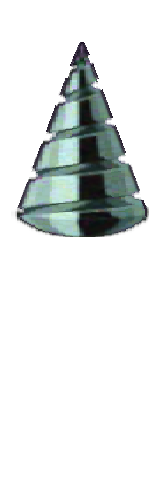
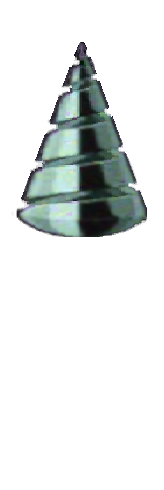
More shenanigans

Changed region(s): [[0.0915, 0.0918, 0.9146, 0.4898], [0.7622, 0.4592, 0.7927, 0.4898]]

diff --git a/src/data/shipsystems/scripts/AEG_GDBreaker.java b/src/data/shipsystems/scripts/AEG_GDBreaker.java
@@ -4,33 +4,15 @@ import com.fs.starfarer.api.Global;
 import com.fs.starfarer.api.combat.*;
 import com.fs.starfarer.api.impl.combat.BaseShipSystemScript;
 import com.fs.starfarer.api.util.IntervalUtil;
-import data.shipsystems.helpers.AEG_GigaDrillDmg;
-import data.shipsystems.helpers.AEG_GigaDrillEffects;
-import org.lazywizard.lazylib.MathUtils;
 import org.lwjgl.util.vector.Vector2f;
 
 import java.awt.*;
-import java.util.HashMap;
-import java.util.Map;
 
 public class AEG_GDBreaker extends BaseShipSystemScript {
 
     private boolean firstRun = true;
     private final IntervalUtil interval = new IntervalUtil(0f, 0.1f);
-    private final IntervalUtil particleInterval = new IntervalUtil(0f, 0.1f);
     private static final String DRILL_WEAPON_ID = "AEG_Giga_Drill";
-    private static final Map<String, String> WEAPON_SLOTS = new HashMap<>();
-
-    static {
-        WEAPON_SLOTS.put("WS0001", "AEG_gurrenl_shoulder_l");
-        WEAPON_SLOTS.put("WS0002", "AEG_gurrenl_shoulder_r");
-        WEAPON_SLOTS.put("WS0003", "AEG_gurrenl_arm_l");
-        WEAPON_SLOTS.put("WS0004", "AEG_gurrenl_arm_r");
-        WEAPON_SLOTS.put("WS0005", "AEG_drillmirv");
-        WEAPON_SLOTS.put("WS0008", "AEG_spiralcannon");
-        WEAPON_SLOTS.put("WS0009", "AEG_gurrenl_legs");
-        WEAPON_SLOTS.put("WS0010", "AEG_spiral_lance");
-    }
 
     @Override
     public void apply(MutableShipStatsAPI stats, String id, State state, float effectLevel) {
@@ -41,44 +23,30 @@ public class AEG_GDBreaker extends BaseShipSystemScript {
         if (engine == null) return;
 
         WeaponAPI drillWeapon = null;
-        Map<String, WeaponAPI> otherWeapons = new HashMap<>();
 
         for (WeaponAPI w : ship.getAllWeapons()) {
-            if (w.getSlot().getId().equals("WS0006") && w.getSpec().getWeaponId().equals(DRILL_WEAPON_ID)) {
+            if (w.getSlot().getId().equals("WS0006")) {
                 drillWeapon = w;
-            } else if (WEAPON_SLOTS.containsKey(w.getSlot().getId())) {
-                otherWeapons.put(w.getSlot().getId(), w);
+                break;
             }
-        }
-
-        if (drillWeapon != null) {
-            drillWeapon.getSprite().setAlphaMult(state == State.ACTIVE || state == State.COOLDOWN ? 1.0f : 0.0f);
         }
 
         if (state == State.ACTIVE) {
-            if (firstRun && drillWeapon != null) {
-                drillWeapon.getAnimation().setFrame(0);
-                drillWeapon.getAnimation().play();
+            if (firstRun) {
+                if (drillWeapon != null) {
+                    drillWeapon.getAnimation().setFrame(1);
+                    drillWeapon.getAnimation().play();
+                }
                 firstRun = false;
 
                 // Add the notification text
-                engine.addFloatingText(ship.getLocation(), "GIGA DRILL BREAKER", 30f, Color.GREEN, ship, 1f, 2f);
+                engine.addFloatingText(ship.getLocation(), "GIGA DRILL BREAKER!", 30f, Color.GREEN, ship, 1f, 2f);
             }
 
-            Vector2f shipLocation = ship.getLocation();
-            particleInterval.advance(engine.getElapsedInLastFrame());
-            if (particleInterval.intervalElapsed()) {
-                for (int i = 0; i < 10; i++) {
-                    Vector2f particleLocation = MathUtils.getRandomPointInCircle(shipLocation, 50f);
-                    engine.addHitParticle(particleLocation, new Vector2f(), 10f, 1f, 0.5f, Color.GREEN);
-                }
-            }
-
-            // Add micro explosions along the path only when the system is active
-            interval.advance(engine.getElapsedInLastFrame());
-            if (interval.intervalElapsed()) {
-                Vector2f explosionLocation = MathUtils.getRandomPointInCircle(shipLocation, 100f);
-                engine.spawnExplosion(explosionLocation, new Vector2f(), Color.ORANGE, 30f, 0.5f);
+            if (drillWeapon != null) {
+                drillWeapon.getSprite().setAlphaMult(1.0f);
+                int frame = (int) ((engine.getTotalElapsedTime(false) * 20) % 4) + 1; // Loop through frames 1 to 4, twice as fast
+                drillWeapon.getAnimation().setFrame(frame);
             }
 
             ship.getMutableStats().getMaxSpeed().modifyFlat(id, 200f);
@@ -86,23 +54,13 @@ public class AEG_GDBreaker extends BaseShipSystemScript {
             ship.getMutableStats().getTurnAcceleration().modifyFlat(id, 200f);
             ship.getMutableStats().getMaxTurnRate().modifyFlat(id, 100f);
 
-            engine.addSmoothParticle(ship.getLocation(), ship.getVelocity(), 100f, 1f, 0.5f, Color.GREEN);
-
-            // Apply damage using the helper class
-            AEG_GigaDrillDmg.applyDamage(engine, ship, engine.getElapsedInLastFrame());
-
-            // Create special effects using the helper class
-            AEG_GigaDrillEffects.createEffects(engine, ship, engine.getElapsedInLastFrame());
-
-            // Hide other weapons
-            for (WeaponAPI w : otherWeapons.values()) {
-                w.getSprite().setAlphaMult(0.0f);
-            }
+            // Increase engine flame size
+            ship.getEngineController().extendFlame(id, 1.5f, 1.5f, 1.5f);
 
         } else {
             if (drillWeapon != null) {
                 drillWeapon.getAnimation().pause();
-                drillWeapon.getAnimation().setFrame(0);
+                drillWeapon.getAnimation().setFrame(0); // Stay on frame 00 when not active
             }
             firstRun = true;
 
@@ -112,10 +70,8 @@ public class AEG_GDBreaker extends BaseShipSystemScript {
             ship.getMutableStats().getTurnAcceleration().unmodify(id);
             ship.getMutableStats().getMaxTurnRate().unmodify(id);
 
-            // Show other weapons
-            for (WeaponAPI w : otherWeapons.values()) {
-                w.getSprite().setAlphaMult(1.0f);
-            }
+            // Reset engine flame size
+            ship.getEngineController().extendFlame(id, 1.0f, 1.0f, 1.0f);
         }
     }
 
@@ -130,10 +86,15 @@ public class AEG_GDBreaker extends BaseShipSystemScript {
         ship.getMutableStats().getTurnAcceleration().unmodify(id);
         ship.getMutableStats().getMaxTurnRate().unmodify(id);
 
-        // Show other weapons
+        // Reset engine flame size
+        ship.getEngineController().extendFlame(id, 1.0f, 1.0f, 1.0f);
+
+        // Ensure the drill weapon is on frame 00
         for (WeaponAPI w : ship.getAllWeapons()) {
-            if (WEAPON_SLOTS.containsKey(w.getSlot().getId())) {
-                w.getSprite().setAlphaMult(1.0f);
+            if (w.getSlot().getId().equals("WS0006")) {
+                w.getAnimation().pause();
+                w.getAnimation().setFrame(0);
+                break;
             }
         }
     }

diff --git a/src/data/weapons/scripts/AEG_GurrenLegs.java b/src/data/weapons/scripts/AEG_GurrenLegs.java
@@ -129,7 +129,7 @@ public class AEG_GurrenLegs implements EveryFrameWeaponEffectPlugin {
         if (frame >= 10) {
             frameStr = String.valueOf(frame);
         }
-        SpriteAPI spr = Global.getSettings().getSprite("graphics/ships/gurren/legs/gurrenlegs" + frameStr + ".png");
+        SpriteAPI spr = Global.getSettings().getSprite("graphics/ships/gurrenl/legs/gurrenl_legs" + frameStr + ".png");
 
         Color color = new Color(defColor.getRed() * 2, defColor.getGreen() * 2, defColor.getBlue() * 2, defColor.getAlpha());
         color = new Color(255, 255, 255);
